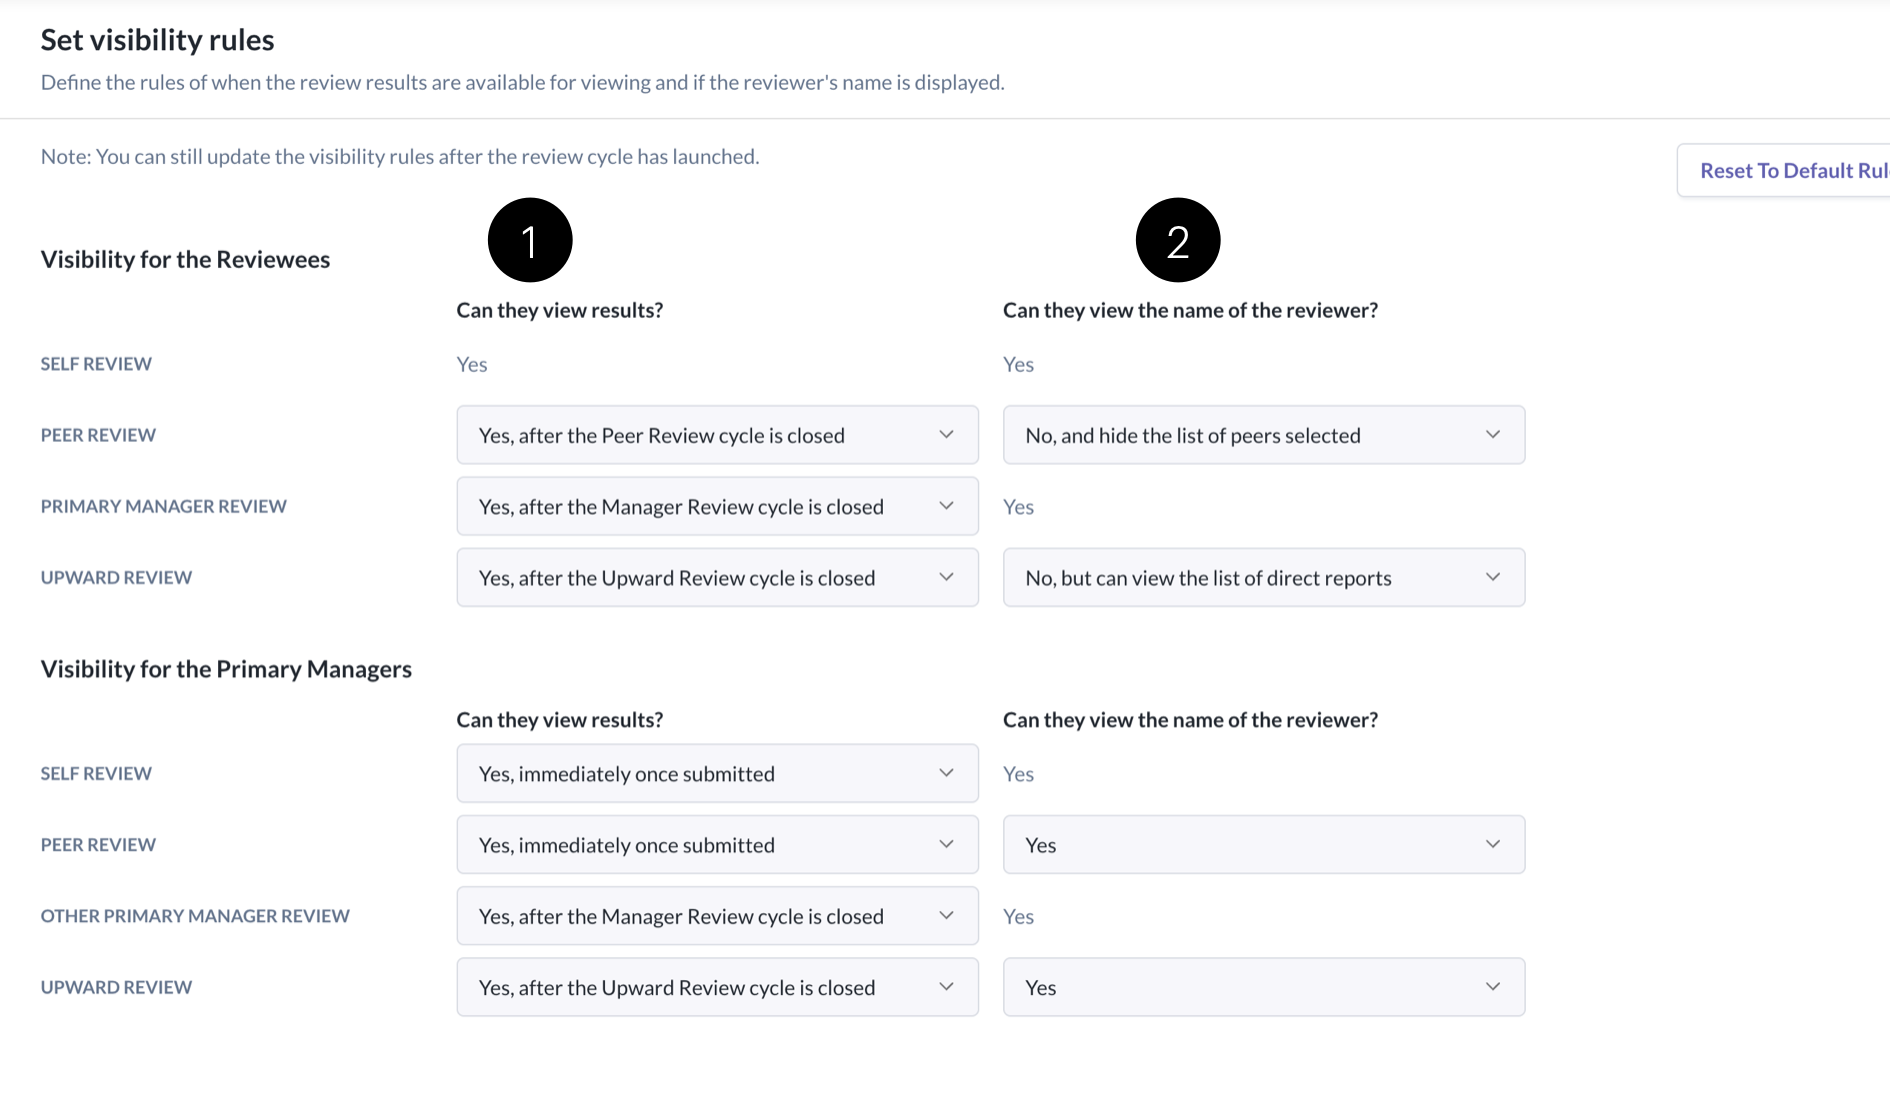
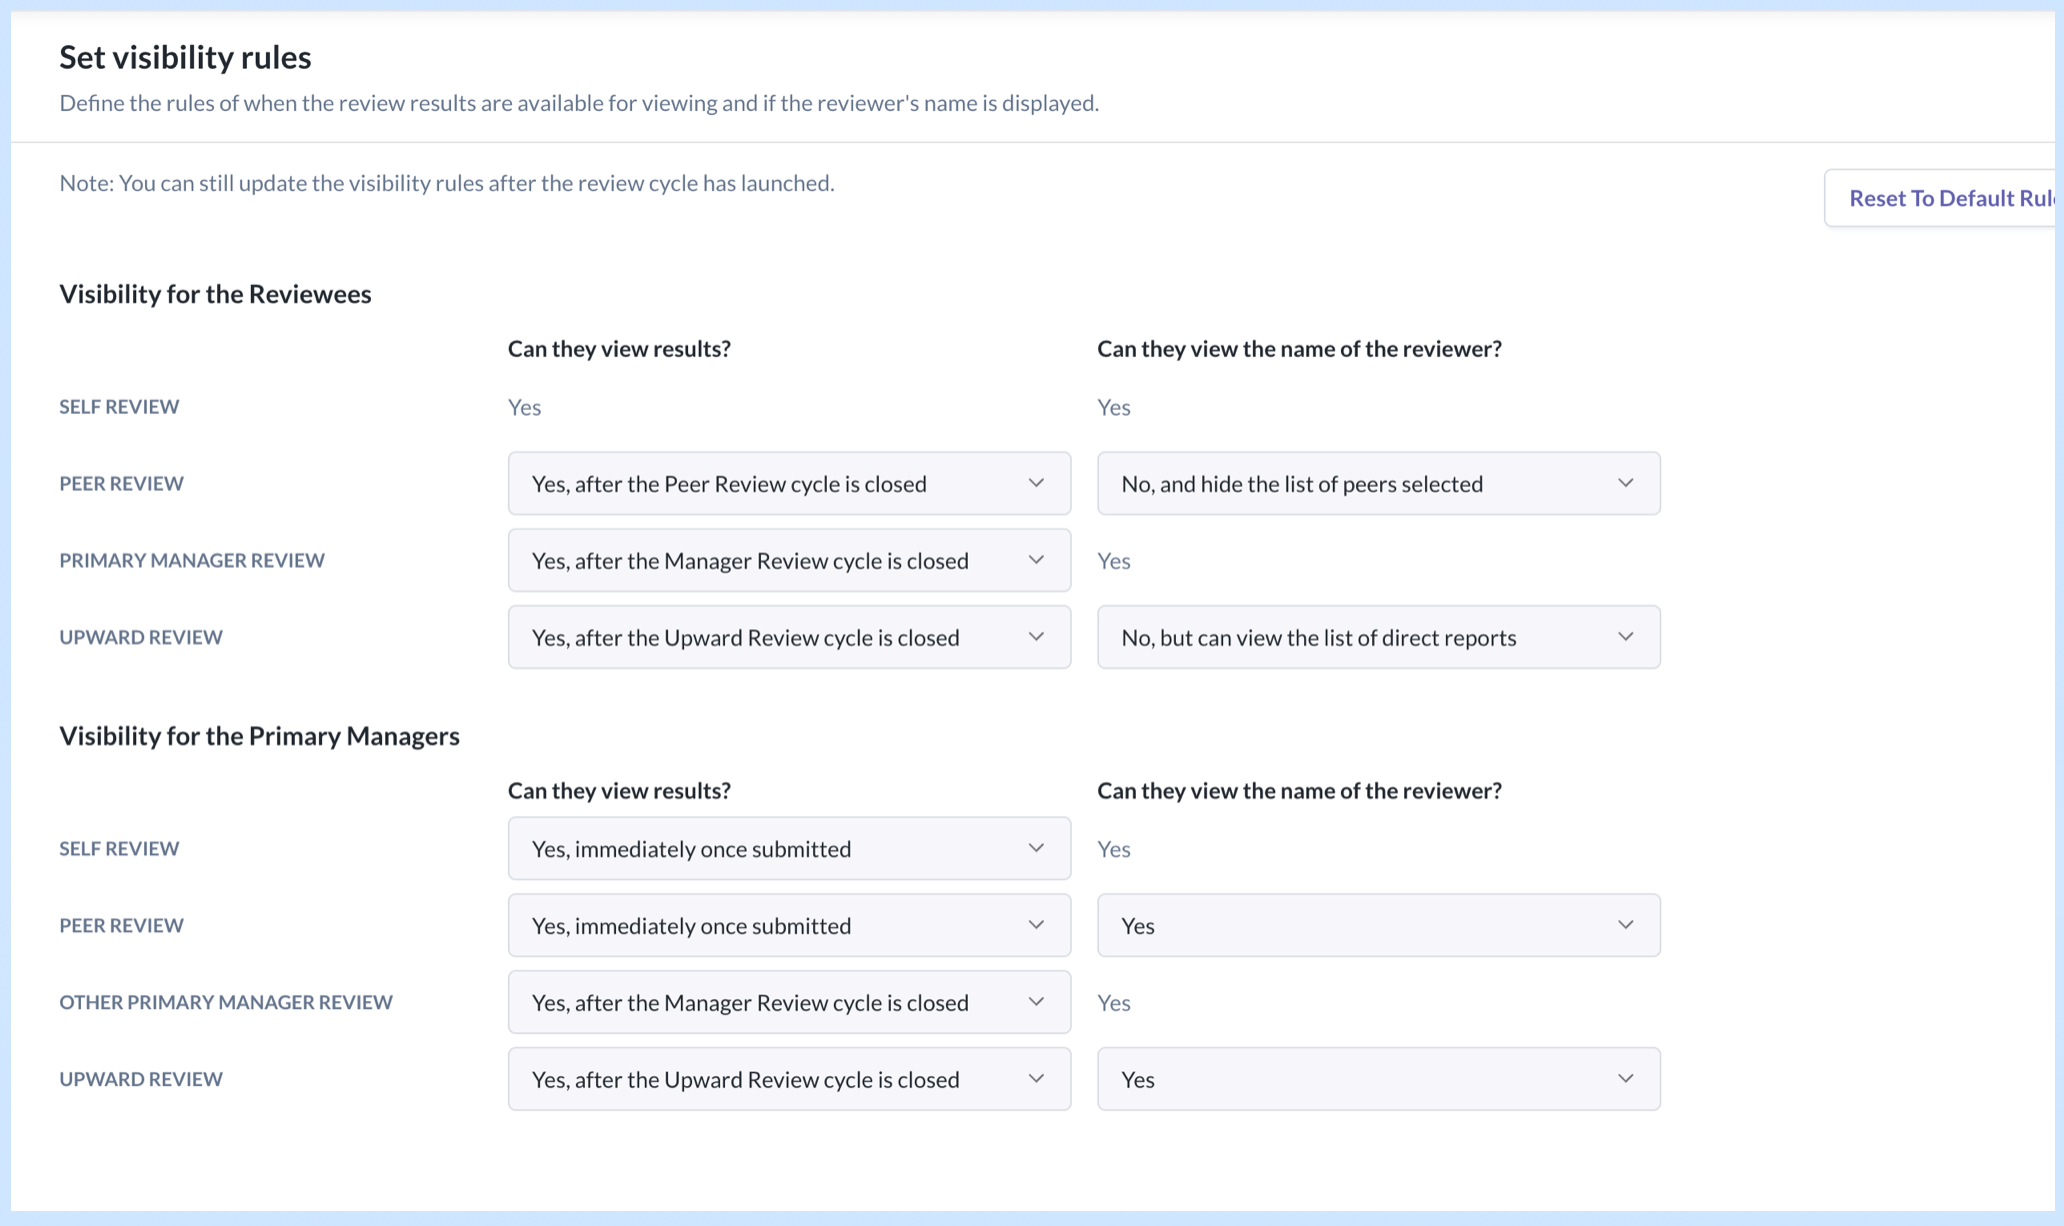
updated perf case study md.

diff --git a/documents/case-study-performance-module.md b/documents/case-study-performance-module.md
@@ -15,14 +15,15 @@
 - **Duration**: 5 iterations over 2 years, scaling from 2 review types to 4, then integrating with Goal Setting
 - **Team**: 1 Designer (me), 2 PMs, 4 Devs, 2 QAs
 - **Key contributions**:
-  - [Drove the visibility rules framework that became the foundation for how all review responses are surfaced — describe the decision you championed]
-  - [Advocated for / pushed back on a specific scope decision — describe what and why]
-  - [Outcome: e.g. "X clients cited the module as a migration factor", "reduced admin setup time by Y", "support tickets around review visibility dropped by Z%"]
+  - Drove the visibility rules framework that became the foundation for how all review responses are surfaced — using checkboxes and switches just weren't enough for admin to easily comprehend and set up; the final matrix layout was the outcome after numerous design iterations and reviews.
+  - Proposed to keep goal setting and competencies selection out of first 2 iterations as itelf was complex already; including them would delay the release deadlines to meet the year-end quarter where most annual reviews occur.
+  - While I wasn't able to ascertain the exact number of new logos that signed up with OmniHR due to this module, I could gather from the sales team that the improved appraisal module incentivised them hugely.
 
 ## Process & Collaboration
 
-- Started with competitive analysis across [X] appraisal tools — identified gaps we could exploit (e.g. [specific gap]) and features we needed to match to be credible.
-- Defined scope for each iteration collaboratively with PMs and stakeholders. [Describe a moment where you influenced scope — what did you push to include or cut, and why?]
+- Started with competitive analysis across 3 appraisal tools — identified gaps we could exploit (e.g. all those that we've analysed [1] required the review cycle to run at a fixed order, and [2] display the review form in a particular sequence; we made ours 100% flexible) and features we needed to match to be credible (e.g. the ability for the managers to lock the peer selection from further editing).
+- Defined scope for each iteration collaboratively with PMs and stakeholders. For example, in the first 2 releases, I proposed to keep sections like competencies and goal setting out of scope. These were dedicated sections in the tools that we analysed with their own step in the review cycle creation flow. And they typically happened at the beginning of the review cycle.
+- It was because we were not yet familiar with the mechanics of running a review cycle that included a period – goal setting and competencies selection – that was separated from the rest of the phases. I termed them as rabbit holes with unknown complexities that would affect the deadlines dramatically.
 - Mapped end-to-end user journeys for all personas before jumping into screens. This surfaced edge cases early — particularly around visibility timing — and saved rework downstream.
 - [Describe how you validated designs — usability testing, client feedback, support ticket analysis, PM reviews, beta rollouts, etc.]
 - Moved to hi-fi designs and created dev handoff presentations to align on interaction details and reduce back-and-forth during implementation.
@@ -34,32 +35,40 @@
 **Situation**: Expanding from Self & Manager Review to include Peer & Upward Review introduced a new problem — whose responses can the reviewee and manager see, when, and whether reviewer identities are anonymous.
 
 **Options considered**:
-- [Option A — e.g. simple toggle per review type. Why this wasn't enough.]
-- [Option B — e.g. the matrix approach you chose. Why this was better.]
+
+Option A: using checkboxes and toggles with progressive disclosures per user role. What resulted was a very long form with repetitive labels which weren't clear and intuitive enough for admins to configure easily.
+
+Option B: display all the options in a 2 column-matrix, grouped by user roles. It removed repetitive labels and the admin could see how one field influenced the other.
 
 **Decision**: Introduced a two-layer visibility configuration in the review cycle creation flow:
+
 1. "Can they view results" — lets the admin choose whether reviewee and manager can view each persona's responses, and when.
 2. "Can they view the name of the reviewer" — controls identity anonymity per persona.
+
 - For certain persona combinations, the first setting constrains the options of the second — reducing admin error.
 
 **How we got there**: Mapped out all visibility scenarios across the 2 main user roles (reviewee and reviewing managers). These maps doubled as alignment tools with PMs and devs — we used them to agree on interactions and views before building.
 
-**Rationale**: [Why this approach was the right trade-off — what did it enable that simpler approaches couldn't? What risk did it mitigate?]
+**Rationale**: It helped to visually explain how the configurations impacted the downstream displays instead of using text and tables, and also demonstrate the state changes over time for each of the user roles. It mitigated the risk of misinterpretation of the fields.
 
-**Result**: [Reusable component system that scaled across review types / reduced admin configuration errors / client feedback, etc.]
+**Result**: Reusable component system that scaled across review types, reduced development and QA time, and reduced admin configuration
 
 ### 2. Redesigning for Multi-Review Types
 
 **Situation**: The original UI was designed for only self and manager reviews. Adding peer and upward review meant up to 5 review types + 2 selection periods per row — the existing 2-column card layout couldn't accommodate this.
 
 **Options considered**:
-- [What other layouts or approaches did you explore? Why were they rejected?]
+
+- While I got a general sense that 2-row layout was the way to go, I played around with various format for the row displaying the status and progress. Eg. one version focused on the active phase, another one visualized as a steppers.
+- Those earlier variations were rejected as they lack clarity on the period and progress. The phases were displayed in a particular sequence didn't mean the actual cycle ran in that same order, so it was important that the design carried all the essential details so it would make sense to the admin even if she was just skimming over them.
 
 **Decision**: Revised to a 2-row card layout:
+
 - Row 1: essential performance cycle details
 - Row 2: statuses of selected review types for the cycle
 
 Other changes:
+
 - Introduced a progress bar combining absolute numbers and completion percentage on the event details page — giving admins both the "how many" and "how far along" at a glance.
 - Increased spacing between review period and status for better scannability.
 - Split the task page into "My Review" (reviews and responses about me) and "Team Review" (reviews and responses for subordinates, peers, and direct managers) — separating personal and managerial contexts.
